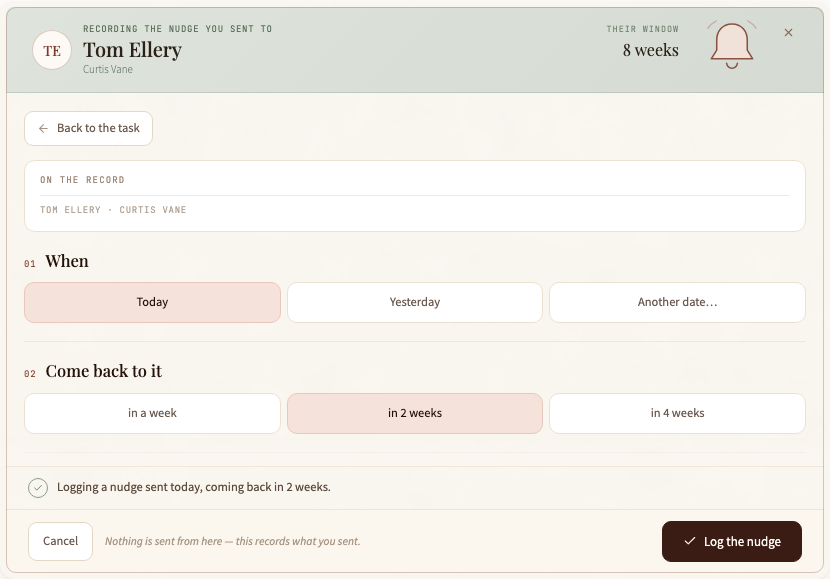
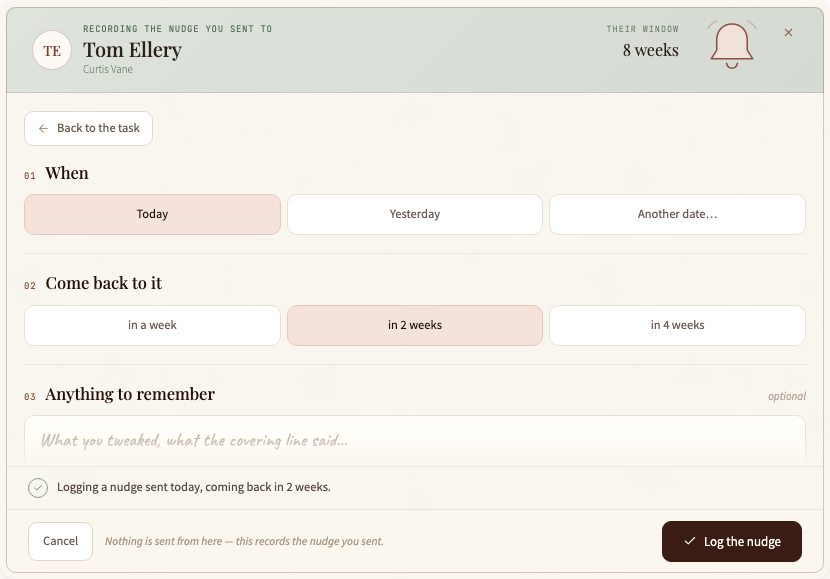
Phase 3 — two more registers the walk found, both the same family
The screenshot is what caught these; the suite could not have.

⚠ THE REFERENCE BLOCK DREW A HEADING OVER A DUPLICATE. On a close card — which has no incoming rung
to quote — it rendered a bordered box containing "ON THE RECORD" and the agent's name, which the BAND
states two inches above in larger type. The FACT is what earns the block: `meta` alone is not
context, it is the same thing said twice, quieter. No fact, no block.

⚠ AND THE FOOT'S HINT SAID "Nothing is sent from here — this records what you sent" UNDER A FORM
THAT ENDS A QUERY. Same shape as the pre-line fault in the last commit: a sentence about a send,
attached to the surface rather than to the journey. `JOURNEY_HINT` per kind, and a close's reads
"This closes the record. It does not tell the agent anything." — which is the thing a writer actually
needs to know at that moment.

Three per-kind tables now (`JOURNEY_PRELINE`, `JOURNEY_ACT`, `JOURNEY_HINT`) beside the step stack.
That is the shape this should have had from the start: everything the journey SAYS is declared per
journey, and nothing is inherited from whichever kind happened to be built first.

Locked, including the negative — a close's hint may not contain "sent", and no act label may be
"Action".

diff --git a/src/components/todo/PaneJourney.tsx b/src/components/todo/PaneJourney.tsx
@@ -28,7 +28,7 @@ import React, { useMemo, useRef, useState } from "react";
 import { ArrowLeft, Check } from "lucide-react";
 import { MaterialRow } from "../../lib/todoHandoff";
 import {
-  CLOSE_REASON_COPY, CloseReason, JOURNEY_STEPS, JourneyKind, JourneySendValues, SEND_METHODS, SendMethod,
+  CLOSE_REASON_COPY, CloseReason, JOURNEY_HINT, JOURNEY_STEPS, JourneyKind, JourneySendValues, SEND_METHODS, SendMethod,
   StepId, canCommit, checkBackLabel, journeySummary, shortDay, whenMode, ymdLocal,
 } from "../../lib/paneJourney";
 import { RecordingCalendar } from "./RecordingCalendar";
@@ -201,7 +201,11 @@ export const PaneJourney: React.FC<PaneJourneyProps> = ({ materials, ask, kind, 
           one framed a derived string as something the agent phrased; this one states where the line
           came from and claims nothing about who wrote it. Omitted entirely where the record holds
           nothing: a "no request recorded" panel is a heading over an absence. */}
-      {(ask?.fact || ask?.meta) && (
+      {/* ⚠ THE FACT IS WHAT EARNS THE BLOCK. `meta` alone is the agent and their agency — which the
+          BAND states two inches above, in larger type — so a block holding only that is a heading
+          over a duplicate. Measured on a close card, which has no incoming rung to quote: it drew a
+          bordered box containing "ON THE RECORD" and the name already on screen. */}
+      {ask?.fact && (
         <div className="pj-ref">
           <h5>On the record</h5>
           {ask.fact && <div className="pj-reff">{ask.fact}</div>}
@@ -259,7 +263,7 @@ export const PaneJourneyFoot: React.FC<PaneJourneyFootProps> = ({ kind, actLabel
       </div>
       <div className="pj-foot">
         <button type="button" className="pj-btn" onClick={onCancel}>Cancel</button>
-        <span className="pj-hint">Nothing is sent from here — this records what you sent.</span>
+        <span className="pj-hint">{JOURNEY_HINT[kind]}</span>
         <span className="pj-grow" />
         <button type="button" className="pj-prime" disabled={!canCommit(kind, value) || saving} onClick={onCommit}>
           <Check size={14} aria-hidden /> {saving ? "Recording…" : actLabel}

diff --git a/src/lib/paneJourney.test.ts b/src/lib/paneJourney.test.ts
@@ -5,7 +5,7 @@
  * The in-pane journey's pure model (Item 9, Phase 2).
  */
 import { describe, it, expect } from "vitest";
-import { openSend, sendSummary, canCommitSend, canCommit, whenMode, ymdLocal, shortDay, SEND_METHODS, JOURNEY_STEPS, JOURNEY_PRELINE, JOURNEY_ACT, journeySummary, checkBackLabel, CLOSE_REASON_COPY } from "./paneJourney";
+import { openSend, sendSummary, canCommitSend, canCommit, whenMode, ymdLocal, shortDay, SEND_METHODS, JOURNEY_STEPS, JOURNEY_PRELINE, JOURNEY_ACT, JOURNEY_HINT, journeySummary, checkBackLabel, CLOSE_REASON_COPY } from "./paneJourney";
 import { CLOSE_REASONS } from "./todoJourneys";
 
 /* ⚠ A FIXED CLOCK, PASSED IN. Every function here takes `now` rather than reading it, so the tests
@@ -181,6 +181,12 @@ describe("⚠ THE BAND AND THE COMMIT SPEAK FOR THE JOURNEY THEY ARE IN", () 
     expect(JOURNEY_PRELINE.close).toBe("Closing your query to");
     /* all three end in the preposition the name follows — the band reads as one sentence */
     for (const k of ["send", "chase", "close"] as const) expect(JOURNEY_PRELINE[k].endsWith(" to")).toBe(true);
+  });
+
+  it("⚠ AND THE HINT IS TRUE OF ITS OWN JOURNEY — a close does not 'record what you sent'", () => {
+    expect(JOURNEY_HINT.close).not.toContain("sent");
+    expect(JOURNEY_HINT.send).toContain("what you sent");
+    expect(JOURNEY_HINT.chase).toContain("nudge");
   });
 
   it("⚠ AND THE COMMIT NAMES ITS DEED — never the row's `Action` shorthand", () => {

diff --git a/src/lib/paneJourney.ts b/src/lib/paneJourney.ts
@@ -70,6 +70,17 @@ export const JOURNEY_ACT: Record<Exclude<JourneyKind, "send">, string> = {
   close: "Close the record",
 };
 
+/**
+ * ⚠ THE FOOT'S HINT IS PER JOURNEY TOO — same family as the pre-line, found the same way. A close
+ * card read "Nothing is sent from here — this records what you sent", which is a sentence about a
+ * send sitting under a form that ends a query.
+ */
+export const JOURNEY_HINT: Record<JourneyKind, string> = {
+  send: "Nothing is sent from here — this records what you sent.",
+  chase: "Nothing is sent from here — this records the nudge you sent.",
+  close: "This closes the record. It does not tell the agent anything.",
+};
+
 /** The three ways a query ends — the close journey's one real question. */
 export type CloseReason = "no_reply" | "off_record" | "withdrawn";
 
